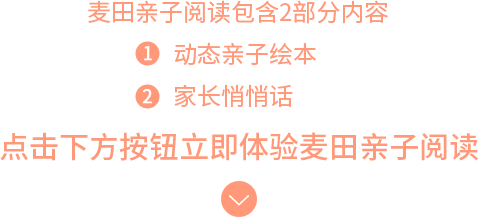
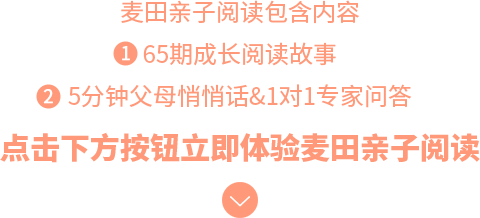
20180308

diff --git a/src/pages/ParentChildReading/SharePage.vue b/src/pages/ParentChildReading/SharePage.vue
@@ -2,16 +2,16 @@
     <div id="share-page" :style="style">
         <div class="touxiang">
             <img :src="images[0]" alt="">
-            <img class="img-touxiang" :src="images[1]" alt="">
+            <img class="img-touxiang" :src="userImg?userImg:images[1]" alt="">
         </div>
         <div class="info">
             <img :src="images[2]" alt="">
-            <div class="name">麦麦</div>
+            <div class="name">{{alias?alias:"麦麦"}}</div>
             <div class="days">
-                66 <span>天</span>
+                {{time}} <span>天</span>
             </div>
             <div class="words">
-                80 <span>次</span>
+                {{words}} <span>字</span>
             </div>
         </div>
         <div class="proposal">
@@ -26,8 +26,8 @@
         </div>
         <div class="qrcode">
             <div class="des">
-                <div>长按识别二维码</div>
-                <p>麦田亲子互动</p>
+                <div>长按二维码图片</div>
+                <p>参与麦田亲子互动</p>
             </div>
             <div class="code">
                 <img :src="images[3]" alt="">
@@ -37,7 +37,17 @@
 </template>
 
 <script>
+    import { getShareUserReadInfo } from "@interface"
+
     export default {
+        data(){
+            return {
+                userImg:"",
+                alias:"麦麦",
+                words:0,
+                time:0,
+            }
+        },
         computed:{
             images(){
                 return[
@@ -50,6 +60,20 @@
             style(){
                 return "height:" + window.innerHeight + "px;"
             },
+        },
+        beforeMount(){
+            let uid = this.$route.query.uid
+            if(uid){
+                getShareUserReadInfo(uid).then(res =>{
+                    console.log(res)
+                    this.userImg = res.info.userImg
+                    this.alias = res.info.alias
+                    this.words = res.info.words
+                    this.time = res.info.time
+                })
+            }else{
+                alert("分享链接错误!")
+            }
         }
     }
 </script>
@@ -73,6 +97,7 @@
             width: 18%;
             left: 50%;
             transform: translateX(-50%);
+            border-radius: 100px;
         }
     }
     .info{
@@ -85,7 +110,7 @@
         .name{
             position: absolute;
             left: 50%;
-            top: 5%;
+            top: 6.5%;
             transform: translate(-50%, -50%);
             font-size: 14px;
             width: 20%;

diff --git a/src/lib/interface/interface.js b/src/lib/interface/interface.js
@@ -59,7 +59,7 @@ export async function getWxShareOptions(callbak) { //获取微信分享配置
                     let obj = data.info
                     let wx = require('weixin-js-sdk')
                     wx.config({
-                        //debug: true, 
+                        // debug: true,
                         appId: obj.appId,
                         timestamp: obj.timestamp,
                         nonceStr: obj.noncestr,
@@ -816,7 +816,7 @@ export async function getUserPayInfo(data) { //课程介绍
     })
 }
 
-export async function getReadListByWeek(data) { //课程介绍
+export async function getReadListByWeek(data) { //亲子阅读推送
     let options = CopyObject(requestOptions)
     options["clazzType"] = data.clazzType
     options["uid"] = data.uid
@@ -827,6 +827,49 @@ export async function getReadListByWeek(data) { //课程介绍
         request({
             type: "post",
             url: requestUserUrl.readListByWeek,
+            data: options,
+            success(data) {
+                if (data.result == 1) {
+                    resolve(data)
+                    return
+                } else {
+                    logoutMessage(data.description)
+                    console.log(data.description)
+                }
+                loadingImage()
+            }
+        })
+    })
+}
+
+export async function getShareUserReadInfo(uid) { //亲子阅读推送
+    let options = CopyObject(requestOptions)
+    options["uid"] = uid
+    return new Promise((resolve, reject) => {
+        request({
+            type: "post",
+            url: requestUserUrl.shareUserReadInfo,
+            data: options,
+            success(data) {
+                if (data.result == 1) {
+                    resolve(data)
+                    return
+                } else {
+                    logoutMessage(data.description)
+                    console.log(data.description)
+                }
+                loadingImage()
+            }
+        })
+    })
+}
+
+export async function getWxReadGoodList() { //亲子阅读推送
+    let options = CopyObject(requestOptions)
+    return new Promise((resolve, reject) => {
+        request({
+            type: "post",
+            url: requestUserUrl.wxReadGoodList,
             data: options,
             success(data) {
                 if (data.result == 1) {

diff --git a/src/pages/ParentChildReading/Buy.vue b/src/pages/ParentChildReading/Buy.vue
@@ -4,7 +4,7 @@
         <div class="bottom" @click="buy">
             <img :src="images[7]" alt="">
             <div class="price">
-                预售价: ￥ <span>99</span>
+                {{title}}: ￥ <span>{{price / 100}}</span>
             </div>
         </div>
         <Loading type="1" v-if="loadingShow"></Loading>
@@ -17,6 +17,7 @@
     import { mapState } from "vuex"
     import { buyKernel } from '@interface'
     import { callWxJsPay } from '@interface'
+    import { getWxReadGoodList } from '@interface'
     import { logoutMessage } from '@common'
 
     export default {
@@ -25,7 +26,10 @@
         },
         data(){
             return{
-                loadingShow:false
+                loadingShow:false,
+                title:"",
+                goodId:"",
+                price:0
             }
         },
         computed:{
@@ -50,12 +54,12 @@
                     openId:this.userOpenId,
                     uid:this.user.uid, 
                     token:this.user.token, 
-                    kernelId:"ycys", 
+                    kernelId:this.goodId, 
                 }).then(res =>{
                     this.loadingShow = false
                     if (res.result == 1) {
                         callWxJsPay(res.orderInfo,() =>{
-                            this.$router.push({path: "/reading/push"})
+                            this.$router.replace({path: "/reading/push"})
                         })
                     } else if (res.result == -1) {
                         logoutMessage('被登出请<br/>重新进入')
@@ -64,6 +68,15 @@
                     }
                 })
             }
+        },
+        beforeMount(){
+            this.loadingShow = true
+            getWxReadGoodList().then(res =>{
+                this.loadingShow = false
+                this.title = res.list[0].title
+                this.goodId = res.list[0].goodId
+                this.price = res.list[0].price
+            })
         }
     }
 </script>
@@ -78,7 +91,7 @@
         .price{
             position: absolute;
             bottom: 5%;
-            right: 45%;
+            left: 28%;
             color:@red;
             font-size: 12px;
             font-size: 3.2vw;

diff --git a/src/pages/ParentChildReading/ReadingPush.vue b/src/pages/ParentChildReading/ReadingPush.vue
@@ -10,7 +10,7 @@
         <div v-if="currentPush">
             <div class="time">
                 <div class="left">
-                    {{getXQ(currentPush.time)}}
+                    {{days[currnetIndex].month}}月{{days[currnetIndex].day}},{{getXQ(currentPush.time)}}
                 </div>
                 <div class="right">
                     <span>亲子陪伴阅读第{{accompanyDays}}天</span>
@@ -159,7 +159,7 @@
                 options.clazzType = "YC"
                 getUserPayInfo(options).then(res =>{
                     this.isInited()
-                    if(res.info.buyNum > 0){
+                    if(res.info && res.info.buyNum > 0){
                         this.isBuy = true
                     }
                 })
@@ -245,8 +245,6 @@
                 this.maxWeek = this.getMaxWeek(this.year)
             }
             let today = parseTime(new Date(), true).split(" ")[0]
-
-            localStorage.wxUserInfo = JSON.stringify(this.user)
 
             this.getUserPayInfo()
             this.getReadListByWeek((res) =>{

diff --git a/src/lib/interface/url.js b/src/lib/interface/url.js
@@ -1,10 +1,10 @@
 export let url = {
-    domain: '/api',
-    domain2: '/log',
+    // domain: '/api',
+    // domain2: '/log',
     // domain: 'http://10.0.1.26',
     // domain2: 'http://10.0.1.26',
-    // domain: 'http://www.mytian.com.cn',
-    // domain2: 'http://114.215.220.162:9999',
+    domain: 'http://www.mytian.com.cn',
+    domain2: 'http://114.215.220.162:9999',
     user() {
         return {
             wxShareSignInfo: this.domain + '/myt_wx/wxShareAction_getWxShareSignInfo.do',
@@ -42,7 +42,8 @@ export let url = {
 
             userPayInfo: this.domain + '/myt_wx/wxReadAction_getUserPayInfo.do',
             readListByWeek: this.domain + '/myt_wx/wxReadAction_getReadListByWeek.do',
-            readListByWeek: this.domain + '/myt_wx/wxReadAction_getReadListByWeek.do',
+            shareUserReadInfo: this.domain + '/myt_wx/wxReadAction_getShareUserReadInfo.do',
+            wxReadGoodList: this.domain + '/myt_order/marketGoodAction_getWxReadGoodList.do',
         }
     },
     pay() {

diff --git a/src/pages/ParentChildReading/Probation.vue b/src/pages/ParentChildReading/Probation.vue
@@ -12,6 +12,8 @@
 <script>
     import ClassItem from "@components/ParentChildReading/ClassItem"
     import WhisperItme from "@components/ParentChildReading/WhisperItme"
+
+    import { wxShareOptions } from "@common"
       
     export default {
         components:{
@@ -48,6 +50,14 @@
                     "time":"",
                     "readUrl":"http://www.mytian.com.cn/myhtml/readbook/lesson3_free/index.html"}
                 }
+        },
+        beforeMount(){
+            wxShareOptions({
+                title: "麦田亲子阅读",
+                link: "http://promotion.mytian.com.cn/myt_promotion/center/center_splash.html?returnTo=reading-free",
+                imgUrl: "http://www.mytian.com.cn/myhtml/readbook/images/logo.png",
+                desc: "用心还原孩子的世界",
+            })
         }
     }
 </script>

diff --git a/src/lib/common.js b/src/lib/common.js
@@ -205,14 +205,13 @@ export function wxShareOptions(options) {
             // 触发时需要做的事...
         },
         success: function() {
-            // alert('分享到朋友圈成功');  
+            // alert('分享到朋友圈成功'); 
         },
         cancel: function() {
             // alert('你没有分享到朋友圈');  
         },
         fail: function(res) {
             //这里必须写，可以再非微信端弹出错误信息，方便调试
-            alert(JSON.stringify(res));
         }
     });
     wx.onMenuShareAppMessage({
@@ -231,7 +230,6 @@ export function wxShareOptions(options) {
         },
         fail: function(res) {
             //这里必须写，可以再非微信端弹出错误信息，方便调试
-            alert(JSON.stringify(res));
         }
     });
 }

diff --git a/src/pages/ParentChildReading/Index.vue b/src/pages/ParentChildReading/Index.vue
@@ -4,6 +4,7 @@
     </div>
 </template>
 <script>
+    import { wxShareOptions } from "@common"
     import { mapActions } from "vuex"
     import { mapState } from "vuex"
 
@@ -20,6 +21,15 @@
             ...mapActions(["isLogin"])
         },
         beforeMount(){
+            localStorage.wxUserInfo = JSON.stringify(this.user)
+
+            wxShareOptions({
+                title: "麦田亲子阅读",
+                link: "http://promotion.mytian.com.cn/myt_promotion/center/center_splash.html?returnTo=reading-push",
+                imgUrl: "http://www.mytian.com.cn/myhtml/readbook/images/logo.png",
+                desc: "用心还原孩子的世界",
+            })
+
             this.isLogin(true).then(res =>{
                 this.isShow = true
             })

diff --git a/src/components/ParentChildReading/ClassItem.vue b/src/components/ParentChildReading/ClassItem.vue
@@ -14,7 +14,7 @@
                 今日亲子阅读内容
             </div>
             <div class="text-d">
-                第{{data.clazzIndex}}/65期: {{data.readContent}}
+               <span v-if="!data.readIsFree"> 第{{data.clazzIndex}}/65期，</span>{{data.readContent}}
             </div>
         </div>
         <img class="status" :src="status[data.readStatus]" alt="">
@@ -76,6 +76,9 @@
             overflow: hidden;
             text-overflow: ellipsis;
             font-size: 13px;
+        }
+        .text-a{
+            font-weight: bold;
         }
         .text-c{
             color:@darkOrange;

diff --git a/src/components/ParentChildReading/WhisperItme.vue b/src/components/ParentChildReading/WhisperItme.vue
@@ -5,10 +5,10 @@
         </div>
         <div class="text">
             <div class="text-c">  
-                1对1父母悄悄话
+                5分钟父母悄悄话
             </div>
             <div class="text-d">
-                第{{data.clazzIndex}}/65期: {{data.whisperContent}}
+                <span v-if="!data.readIsFree"> 第{{data.clazzIndex}}/65期 </span>{{data.whisperContent}}
             </div>
         </div>
         <img class="status" :src="status[0]" alt="">
